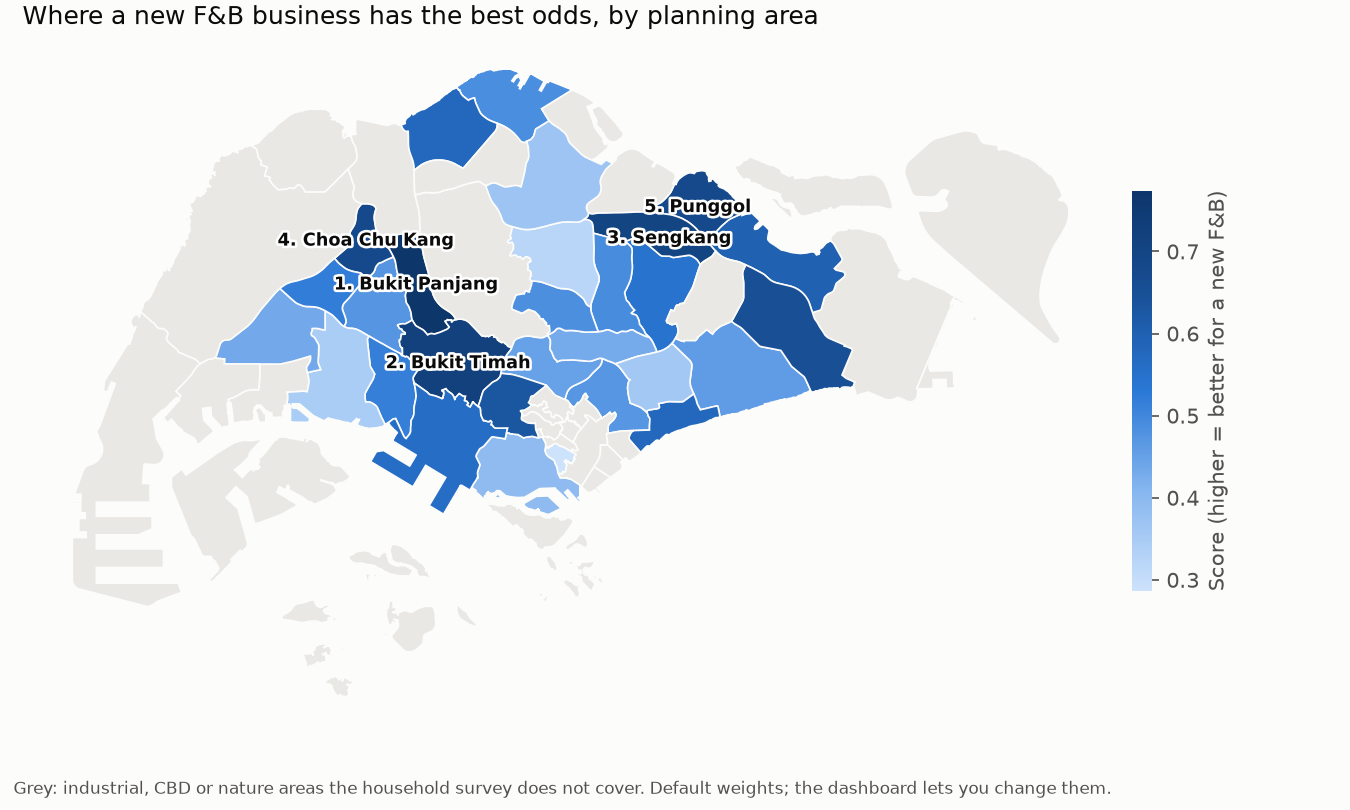
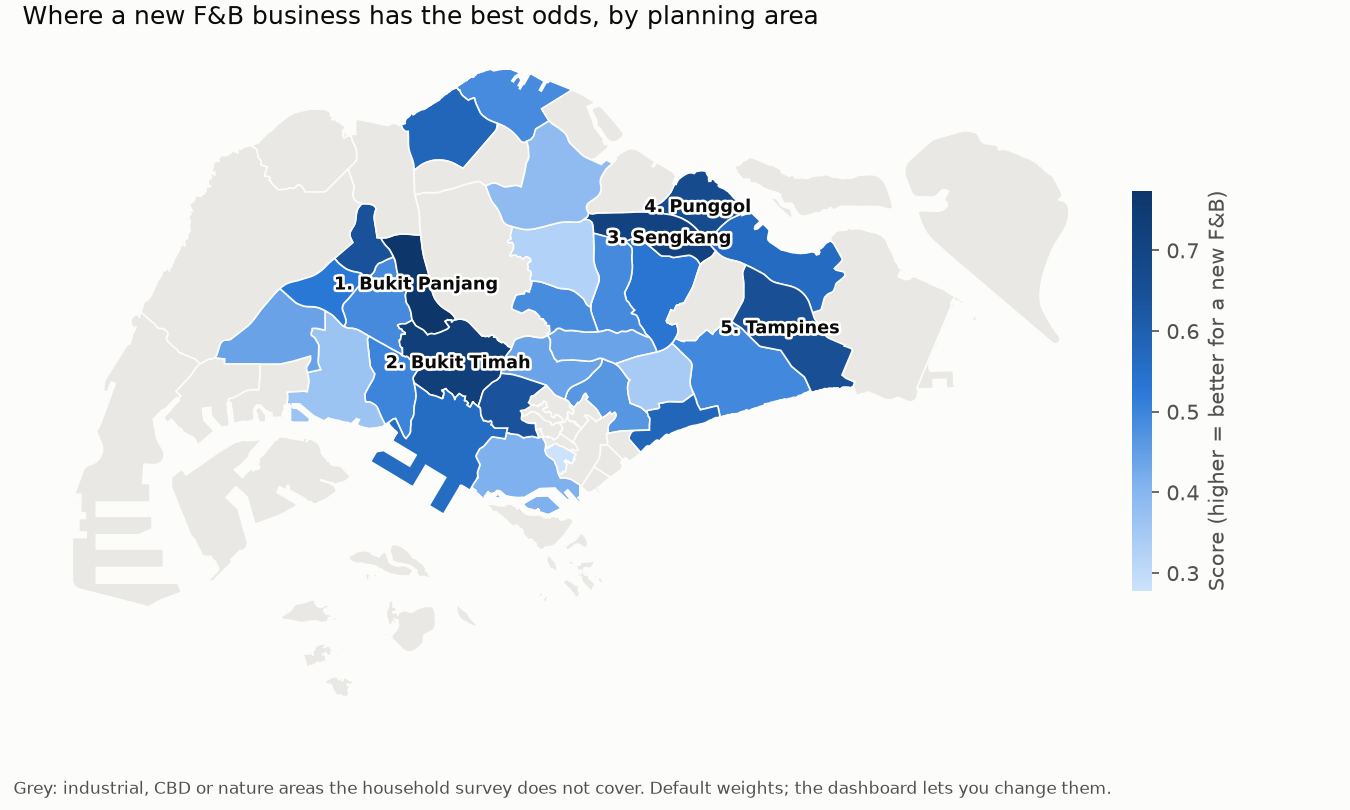
Fix over-shrinkage of area survival rates
beta_binomial_prior compared a cohort-size-weighted spread of area survival
rates with an unweighted noise term (mean of 1/n). With cohorts from 8 to 749
companies that overstated the noise, so the prior strength came out at 925
instead of 130 and every area was pulled most of the way to the island-wide
54%. In simulation with the real cohort sizes the old estimator reported 360
for a true strength of 100 and ~250,000 (complete pooling) for 300 or 900;
the corrected moment estimator recovers 105, 325 and 1,023.

The noise term is now mu(1-mu)(K-1)/N and the excess is divided by
1 - sum(w^2), the textbook expectation for a weighted variance. A new
parametrised test checks recovery of a known spread with unequal cohorts and
fails on the old code.

Rerun on the same ACRA release (the unmodified code reproduced the committed
results exactly first): survival now spans 50% to 62% instead of 53% to 57%.
The top three are unchanged; Punggol and Tampines move to 4th and 5th and Choa
Chu Kang to 6th. README updated: ranking table, weight-sensitivity shares,
Tampines' industrial-postcode cluster (it is now in the top five), the
survival paragraph, and a dated correction note.

diff --git a/sitefinder/stats.py b/sitefinder/stats.py
@@ -11,18 +11,31 @@ def beta_binomial_prior(successes: np.ndarray, trials: np.ndarray) -> tuple[floa
 
     The spread of observed rates is partly real differences between areas and partly
     noise from small samples. Subtracting the expected noise leaves the between-area
-    variance, which sets how strongly each area is pulled toward the overall rate."""
+    variance, which sets how strongly each area is pulled toward the overall rate.
+
+    The spread is weighted by cohort size, so the noise subtracted must be weighted
+    the same way. For weights w = n / N around the pooled rate mu,
+
+        E[sum w (p - mu)^2] = tau^2 (1 - sum w^2) + mu (1 - mu) (K - 1) / N
+
+    where tau^2 is the between-area variance and K the number of areas. Using the
+    unweighted mean of 1/n instead (as this function once did) overstates the noise
+    whenever cohort sizes differ: on the real areas (8 to 749 companies) it put the
+    prior strength at 925 instead of 130, pulling every area most of the way to the
+    island-wide rate. tests/test_sitefinder.py checks the estimate against simulated
+    areas with a known spread."""
     successes, trials = np.asarray(successes, float), np.asarray(trials, float)
     keep = trials > 0
     s, n = successes[keep], trials[keep]
     if len(n) < 3:
         raise ValueError("need at least 3 areas with data to estimate how much areas differ")
     p = s / n
-    mean = s.sum() / n.sum()
-    weights = n / n.sum()
+    total = n.sum()
+    mean = s.sum() / total
+    weights = n / total
     observed_var = np.sum(weights * (p - mean) ** 2)
-    noise_var = mean * (1 - mean) * np.mean(1 / n)
-    between = max(observed_var - noise_var, 1e-6)
+    noise_var = mean * (1 - mean) * (len(n) - 1) / total
+    between = max((observed_var - noise_var) / (1 - np.sum(weights ** 2)), 1e-6)
     strength = max(mean * (1 - mean) / between - 1, 1.0)  # alpha + beta
     return mean * strength, (1 - mean) * strength
 

diff --git a/tests/test_sitefinder.py b/tests/test_sitefinder.py
@@ -114,6 +114,27 @@ def test_shrinkage_pulls_small_areas_harder():
     assert r.loc[0, "ci_high"] - r.loc[0, "ci_low"] > r.loc[1, "ci_high"] - r.loc[1, "ci_low"]
 
 
+@pytest.mark.parametrize("true_strength", [100, 300, 900])
+def test_prior_strength_recovers_a_known_spread_with_unequal_cohorts(true_strength):
+    """Areas of very different size (as in the real data: 8 to 749 companies) whose
+    true rates come from a known Beta prior. The fitted strength should land near the
+    truth. The old estimator subtracted unweighted noise from a weighted spread and
+    reported 360 for a true 100, and ~250,000 (complete pooling) for 300 or 900."""
+    from sitefinder.stats import beta_binomial_prior
+
+    rng = np.random.default_rng(1)
+    trials = np.array([8, 34, 45, 60, 70, 99, 120, 133, 146, 166, 180, 200, 230, 277,
+                       300, 340, 420, 500, 749] * 2)
+    mean = 0.54
+    a, b = mean * true_strength, (1 - mean) * true_strength
+    fitted = []
+    for _ in range(600):
+        successes = rng.binomial(trials, rng.beta(a, b, len(trials)))
+        fa, fb = beta_binomial_prior(successes, trials)
+        fitted.append(fa + fb)
+    assert np.median(fitted) == pytest.approx(true_strength, rel=0.25)
+
+
 def test_area_with_no_cohort_gets_the_prior():
     r = shrunk_rates(np.array([0, 50, 60, 55]), np.array([0, 100, 100, 100]))
     assert np.isnan(r.loc[0, "raw_rate"])

diff --git a/README.md b/README.md
@@ -6,7 +6,7 @@ competition there is, how much residents have to spend, how often new F&B busine
 there survive, and how much passing trade the MRT brings.** All inputs are public
 data. A dashboard lets you set your own weights.
 
-Built with Python, pandas, Shapely and Streamlit. 19 tests, including the dashboard.
+Built with Python, pandas, Shapely and Streamlit. 22 tests, including the dashboard.
 
 ![Score by planning area](docs/score_map.png)
 
@@ -19,19 +19,20 @@ With the default weights (competition 35%, spending power 25%, survival 25%, MRT
 | 1 | Bukit Panjang | 469 | $12,722 | 11 |
 | 2 | Bukit Timah | 191 | $30,469 | 6 |
 | 3 | Sengkang | 438 | $13,237 | 15 |
-| 4 | Choa Chu Kang | 456 | $13,104 | 8 |
-| 5 | Punggol | 386 | $12,591 | 17 |
+| 4 | Punggol | 386 | $12,591 | 17 |
+| 5 | Tampines | 278 | $12,796 | 6 |
 
 - **The north-west and north-east HDB towns are under-served.** Bukit Panjang, Choa
   Chu Kang and Sengkang each have over 430 residents for every F&B business. Geylang
-  has 52 and Outram 12.
+  has 52 and Outram 12. Choa Chu Kang would be third without the survival factor; it
+  is sixth because its new F&B companies survive least often of the six (50%).
 - **Bukit Timah is in the top five for the opposite reason.** It has fairly heavy
   competition, but household income is second only to Tanglin.
-- **The top three don't depend on the weights.** Under 5,000 random weightings, Bukit
-  Panjang is in the top five 80% of the time, Bukit Timah 73% and Sengkang 63%.
-  Tampines, sixth with the default weights, makes the top five under only 13% of them.
-  If your priorities differ from the defaults, those three are still the safest
-  shortlist.
+- **The top three hold up under most weightings.** Under 5,000 random weightings, Bukit
+  Panjang is in the top five 80% of the time, Bukit Timah 75% and Sengkang 67%.
+  Tampines, fifth with the default weights, makes the top five under only 16% of them,
+  so its place depends on the defaults. If your priorities differ, the first three
+  are the safest shortlist.
 
 ![What puts the top 10 there](docs/top10_breakdown.png)
 
@@ -64,21 +65,37 @@ eating establishments (2016, the latest published):
   would suggest. 46% of its live F&B businesses are registered in five buildings,
   led by the Food Xchange @ Admiralty food factory (262 businesses). These are central
   kitchens and caterers, not shops, so Sembawang's competition looks worse than it is.
-- The top five areas have no such factory cluster. In four of them the five busiest
-  postcodes hold 7% to 12% of the businesses. In Bukit Timah they hold 21%, but these
-  are food malls where outlets really trade (Beauty World Centre, Bukit Timah Shopping
-  Centre, The Grandstand), and Bukit Timah has slightly fewer registrations than its
-  outlet count would suggest (0.86 times).
+- In three of the top five, the five busiest postcodes hold 7% to 12% of the
+  businesses. In Bukit Timah they hold 21%, but these are food malls where outlets
+  really trade (Beauty World Centre, Bukit Timah Shopping Centre, The Grandstand), and
+  Bukit Timah has slightly fewer registrations than its outlet count would suggest
+  (0.86 times).
+- **Tampines has a smaller cluster of its own.** A third of its live F&B businesses
+  (346 of 1,045) are registered at industrial postcodes (48xxxx), mostly caterers and
+  the head offices of chains whose outlets trade elsewhere ("Western Food (Yishun
+  317)"). Even so, Tampines has fewer registrations than its 2016 outlet count would
+  suggest (0.80 times), so its competition is not overstated.
 - Punggol has 1.7 times its 2016 outlet count, which fits a town that has grown a lot
   since 2016.
 
-**Survival hardly tells the areas apart.** 54% of the 6,562 F&B companies registered
-in these areas in 2019–2022 are still live. Small areas look extreme by chance (Tengah:
-6 of 8 still live, 75%), so each area's rate is pulled toward the island-wide rate by
-how little data it has (beta-binomial shrinkage). After that, every area sits between
-**53% and 57%**, and their 90% intervals mostly overlap. Because each factor is turned
-into a percentile, that small spread still moves the score. Set survival to zero in
-the dashboard if you would rather ignore it.
+**Survival separates the areas, but only modestly.** 54% of the 6,562 F&B companies
+registered in these areas in 2019–2022 are still live. Small areas look extreme by
+chance (Tengah: 6 of 8 still live, 75%), so each area's rate is pulled toward the
+island-wide rate by how little data it has (beta-binomial shrinkage, which brings
+Tengah to 55%). After that, areas range from **50% (Ang Mo Kio) to 62% (Sembawang)**.
+The differences are real overall (a chi-square test across the 29 areas gives
+p < 0.001), but only 3 areas have a 90% interval that excludes 54%, and Sembawang's
+top rate is partly its food-factory caterers (69% still live there, 60% elsewhere in
+Sembawang). Because each factor is turned into a percentile, small gaps still move
+the score. Set survival to zero in the dashboard if you would rather ignore it.
+
+*Corrected 22 Nov 2026:* the first version estimated how much areas differ with a
+formula that overstated the sampling noise, which pulled every area almost all the
+way to 54% (53% to 57%) and made survival look nearly uninformative. The fix, a
+simulation test that the estimate recovers a known spread, and the reruns are in
+`sitefinder/stats.py` and `tests/test_sitefinder.py`. The top three did not change.
+Punggol and Tampines moved up to fourth and fifth, and Choa Chu Kang moved down to
+sixth.
 
 **Coverage.** 37,973 businesses are live or were registered since 2019 (the only ones
 any factor uses). **99.6% of them were placed in a planning area.** Older closed
